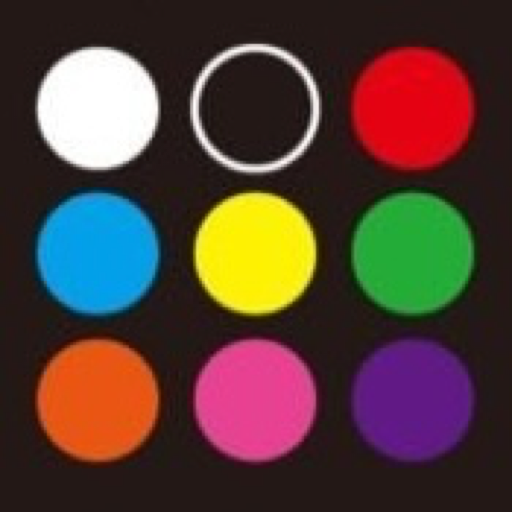
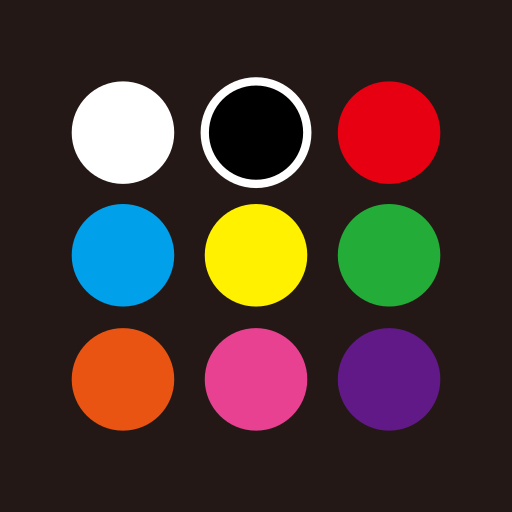
feat: 公式アイコン・ロゴを導入し、ヘッダー / Access / Footer をアイコン + ロゴのロックアップに
- public/favicon.svg に公式アイコン (焦茶の正方形に 3×3 ドット) を追加し、favicon / apple-touch-icon / android-chrome の PNG をそこから再生成。Base.astro で SVG favicon を先に参照、site.webmanifest にも追加
- src/assets/logo.svg: 提供された text ベースのロゴ SVG (Iowan Old Style 146px + Noto Sans JP Light 41px、textLength 指定) を fontTools + HarfBuzz でアウトライン化し svgo で圧縮 (5KB、fill=currentColor)
- BrandLockup.astro を新設 (アイコン左 + ロゴ右、同じ高さ、間隔は高さ×0.3、高さは --lockup-height)。Header (48 / 28px)、Access の h2 (72 / 52px、ロゴが role="img")、Footer (40px) で使用。Hero のドットと Access の GINZA ラベル、CSS 描画の BrandDots.astro と点灯アニメーション (dot-in) は削除
- DESIGN.md / tokens.css: dot-* を公式アイコンの値に更新、dot-border と typography.brand を削除、brand-lockup と Logo / Brand Lockup / Header / Footer の記述を更新。--logo-height* を追加
- verify-dist: SVG favicon、ヘッダーのロゴ、ロックアップの配置 (Header / Access / Footer、Hero にはない)、Access 見出し、icon.svg と favicon.svg の同一性の検査を追加 (37 件)
- CLAUDE.md / spec に構成と更新注記を追記

Changed region(s): [[0.0625, 0.0625, 0.9375, 0.9062]]

diff --git a/src/styles/tokens.css b/src/styles/tokens.css
@@ -15,15 +15,14 @@
   --color-scrollbar-thumb: #443330;
   --color-dot-white: #FFFFFF;
   --color-dot-black: #000000;
-  --color-dot-red: #E60012;
-  --color-dot-blue: #0099CC;
-  --color-dot-yellow: #FFD700;
-  --color-dot-green: #009944;
-  --color-dot-orange: #F39800;
-  --color-dot-pink: #E6007F;
-  --color-dot-purple: #920783;
-  /* 黒ドットの輪郭 (DESIGN.md Brand Dots: #4a5565 相当) */
-  --color-dot-border: oklch(44.6% 0.03 256.802);
+  /* ドット 9 色は公式アイコン (public/favicon.svg) の値が正。黒ドットの縁取りは dot-white */
+  --color-dot-red: #E70012;
+  --color-dot-blue: #00A0EA;
+  --color-dot-yellow: #FFF100;
+  --color-dot-green: #23AC38;
+  --color-dot-orange: #E95412;
+  --color-dot-pink: #E84191;
+  --color-dot-purple: #611987;
 
   /* typography: --font-zen-old-mincho は Astro Fonts API が定義する (和文も欧文も 1 書体) */
   --font-serif: var(--font-zen-old-mincho), serif;
@@ -37,9 +36,6 @@
   --text-title: 1.875rem;
   --text-title-mobile: 1.5rem;
   --leading-title: 1.625;
-  --text-brand: 1.5rem;
-  --text-brand-mobile: 1.25rem;
-  --leading-brand: 1.33;
   --text-body: 1rem;
   --text-body-mobile: 0.875rem;
   --leading-body: 2;
@@ -65,6 +61,13 @@
   --space-stack-xl: 64px;
   --space-card-gap: 96px;
   --space-card-gap-md: 128px;
+
+  /* logo (アイコン + ロゴのロックアップの高さ。DESIGN.md Brand Lockup) */
+  --logo-height: 48px;
+  --logo-height-mobile: 28px;
+  --logo-height-footer: 40px;
+  --logo-height-access: 72px;
+  --logo-height-access-mobile: 52px;
 
   /* rounded */
   --radius-none: 0px;

diff --git a/src/styles/global.css b/src/styles/global.css
@@ -119,7 +119,7 @@ button:focus-visible {
   padding: var(--space-section-y) var(--space-section-x);
 }
 
-/* セクションラベル (RIZ / BOUTIQUE / GINZA など) */
+/* セクションラベル (RIZ / BOUTIQUE など) */
 .label {
   display: block;
   margin-bottom: 8px;
@@ -148,11 +148,6 @@ button:focus-visible {
 @keyframes rise-in {
   from { opacity: 0; translate: 0 10px; }
   to { opacity: 1; translate: 0 0; }
-}
-
-@keyframes dot-in {
-  from { opacity: 0; scale: 0; }
-  to { opacity: 1; scale: 1; }
 }
 
 @keyframes slow-zoom {

diff --git a/DESIGN.md b/DESIGN.md
@@ -18,15 +18,14 @@ colors:
   scrollbar-thumb: "#443330"
   dot-white: "#FFFFFF"
   dot-black: "#000000"
-  dot-red: "#E60012"
-  dot-blue: "#0099CC"
-  dot-yellow: "#FFD700"
-  dot-green: "#009944"
-  dot-orange: "#F39800"
-  dot-pink: "#E6007F"
-  dot-purple: "#920783"
-  # 黒ドットの輪郭 (tokens.css --color-dot-border)
-  dot-border: "oklch(44.6% 0.03 256.802)"
+  # ドット 9 色は公式アイコン (public/favicon.svg) の値が正。黒ドットの縁取りは dot-white
+  dot-red: "#E70012"
+  dot-blue: "#00A0EA"
+  dot-yellow: "#FFF100"
+  dot-green: "#23AC38"
+  dot-orange: "#E95412"
+  dot-pink: "#E84191"
+  dot-purple: "#611987"
 typography:
   # fontSize は 768px 以上の値。モバイル値は本文 Typography の表を参照。
   display:
@@ -46,12 +45,6 @@ typography:
     fontSize: "1.875rem"
     fontWeight: 400
     lineHeight: 1.625
-    letterSpacing: "0.1em"
-  brand:
-    fontFamily: Zen Old Mincho, serif
-    fontSize: "1.5rem"
-    fontWeight: 400
-    lineHeight: 1.33
     letterSpacing: "0.1em"
   body:
     fontFamily: Zen Old Mincho, serif
@@ -138,9 +131,10 @@ components:
   field-label:
     textColor: "{colors.text-muted}"
     typography: "{typography.label}"
-  brand-dot:
-    rounded: "{rounded.full}"
-    size: "12px"
+  # アイコン + ロゴの横並びロックアップ (BrandLockup)。size はヘッダー (768px 以上) の高さ
+  brand-lockup:
+    rounded: "{rounded.none}"
+    size: "48px"
   footer-text:
     textColor: "{colors.text-muted}"
     typography: "{typography.caption}"
@@ -193,7 +187,7 @@ components:
 - **スクロールバー (`scrollbar-thumb`, #443330)**: WebKit スクロールバーのつまみ。トラックは `brand`。
 
 ### Brand Dots (装飾専用)
-白・黒・赤・青・黄・緑・橙・桃・紫の 9 色 (`dot-*`) は、ロゴモチーフの 3×3 ドットと、セクションに散らす微小な光点にだけ使う。UI の意味色 (成功・警告・リンクなど) に転用しない。ドットは 30〜50% のグローを伴い、黒ドットだけは #4a5565 相当の 1px 枠で輪郭を出す。
+白・黒・赤・青・黄・緑・橙・桃・紫の 9 色 (`dot-*`) は、公式アイコンの 3×3 ドットと、セクションに散らす微小な光点にだけ使う。UI の意味色 (成功・警告・リンクなど) に転用しない。値は公式アイコン (`public/favicon.svg`) が正。ページ内ではロックアップ (`BrandLockup`) の左側に同じ SVG (`src/assets/icon.svg`) を焦茶の四角ごと inline で置き、色は SVG 内の値をそのまま使う (グローや縁取りの加工はしない)。
 
 ### Named Rules
 **The One Gold Rule.** 金は 1 画面のうちごく一部にしか現れない。CTA も静止時は白の罫線で、ホバーして初めて金に反転する。金が面として存在する時間は「触れている間」だけ。
@@ -213,11 +207,11 @@ components:
 - **Display** (`display`, 400, 3.5rem / 行間 1.11 / 字間 0.2em): Hero の h1 だけ。改行は文言側で明示する。モバイル 2.25rem。
 - **Headline** (`headline`, 400, 2.5rem / 1.2 / 0.1em): Experience・BOUTIQUE・Access の h2。モバイル 1.875rem。
 - **Title** (`title`, 400, 1.875rem / 1.625 / 0.1em): Philosophy の h2。行間を広めに取り 2 行タイトルを収める。モバイル 1.5rem。
-- **Brand** (`brand`, 400, 1.5rem / 1.33 / 0.1em): ヘッダーの店名。モバイル 1.25rem。直下にカナ表記 (`label` サイズ、字間 0.2em、`text-muted`) を添える。
+- **Logo**: 店名は文字で組まず、ロゴ (`src/assets/logo.svg`、Iowan Old Style のワードマーク + Noto Sans JP Light のカナをアウトライン化した SVG) を、常に公式アイコンを左に添えた横並びロックアップ (`BrandLockup`) で置く。高さはヘッダー 48px / モバイル 28px (`--logo-height` / `--logo-height-mobile`)、Access の見出し (h2、ロゴが `role="img"`) 72px / 52px (`--logo-height-access*`)、Footer 40px (`--logo-height-footer`)。ロゴは `fill: currentColor` で置き場所の文字色を継ぐ (ヘッダー・Access は白、Footer は `text-soft`)。
 - **Body** (`body`, 400, 1rem / 2 / 0.1em): 本文。行間 2 は意図的に広い。モバイル 0.875rem (行間はそのまま)。
 - **Menu** (`menu`, 400, 0.875rem / 1.43 / 0.1em): デスクトップナビ、ボタン文字 (md / lg)、Access の予約注記。
 - **Label** (`label`, 400, 0.75rem / 1.33 / 0.1em): 言語スイッチ、`ADDRESS` `TEL` `HOURS` `RESERVATION` のフィールドラベル、sm ボタン、営業時間の注記。
-- **Label Wide** (`label-wide`, 400, 0.75rem / 1.33 / 0.3em): `RIZ` `SOUPE` `MARIAGE` `BOUTIQUE` `GINZA` のセクションラベル。金または `text-muted`。
+- **Label Wide** (`label-wide`, 400, 0.75rem / 1.33 / 0.3em): `RIZ` `SOUPE` `MARIAGE` `BOUTIQUE` のセクションラベル。金または `text-muted`。
 - **Caption** (`caption`, 400, 10px / 1.5 / 0.1em): フッターの著作権表記のみ。
 
 ### 数字と約物
@@ -287,12 +281,12 @@ components:
 - **Focus:** `accent` 2px のアウトライン、offset 2px (全リンク・ボタン共通)
 
 ### Header & Navigation
-- **Desktop:** 左に店名 (`brand`) とカナ表記、右に `Access` リンク (`nav-link`、ホバーで `accent` へ 300ms) と sm の Outline ボタン。ヘッダーは開演の最後 (遅延 1.4s) に 1 秒でフェードイン
-- **Mobile:** `Access` リンクを省き、右上に sm の Outline ボタンだけを置く。ハンバーガーメニューは持たない (Access セクションへはスクロールで届く)
+- **Desktop:** 左にアイコン + ロゴのロックアップ (高さ 48px)、右に `Access` リンク (`nav-link`、ホバーで `accent` へ 300ms) と sm の Outline ボタン。ヘッダーは開演の最後 (遅延 1.4s) に 1 秒でフェードイン
+- **Mobile:** ロックアップは高さ 28px (RESERVATION ボタンと並べて 375px に収める)。`Access` リンクを省き、右上に sm の Outline ボタンだけを置く。ハンバーガーメニューは持たない (Access セクションへはスクロールで届く)
 - **Language Switch:** 英語版を追加するまで非表示。追加時は `JP | EN` の静的リンク (0.75rem、字間 0.1em、アクティブは `accent` + 700 + 1px 下線) をナビの右に置く
 
 ### Section Label + Heading
-- **Pattern:** `label-wide` の仏語/英語ラベル (`RIZ` `BOUTIQUE` `GINZA`) を `accent` (Access の `GINZA` は `text-muted`) で置き、8px 下に `headline` の h2、32px 下に本文
+- **Pattern:** `label-wide` の仏語/英語ラベル (`RIZ` `BOUTIQUE`) を `accent` で置き、8px 下に `headline` の h2、32px 下に本文。Access だけは例外で、h2 としてアイコン + ロゴのロックアップ (高さ 72px、モバイル 52px) を置き、ラベルは持たない
 - **Field Label:** Access の `ADDRESS` `TEL` `HOURS` `RESERVATION` は `field-label` (`text-muted`、0.75rem、字間 0.1em) で、4px 下に値
 
 ### Photo Treatment
@@ -301,15 +295,15 @@ components:
 - **Experience:** 90% に減光、16:9、ホバーで 2 秒かけて 1.05 倍。下から `brand` へ溶かす
 - **BOUTIQUE:** 30% に減光して全面背景に、上下を `brand` で締める
 
-### Brand Dots
-- **Style:** 3×3 グリッド、色順固定、各ドットにグロー。Hero の開演では 9 個が 0.2 秒から 0.08 秒ずつずれて 0.5 秒で拡大しながら現れる
-- **Usage:** Hero / Access の 2 箇所。他では使わない
+### Brand Lockup (アイコン + ロゴ)
+- **Style:** 公式アイコン SVG (焦茶の四角 + 3×3 ドット) を左、ロゴを右に同じ高さで横並び。間隔は高さの 0.3 倍。アニメーションは付けない (2026-09-12 のユーザー指示。必要になったら指示がある)
+- **Usage:** ヘッダー (リンク、48px / 28px)、Access の見出し (h2、72px / 52px)、Footer (40px) の 3 箇所。Hero には置かない (h1 とタグラインだけ)
 
 ### Footer
-- **Style:** 上に `line-faint` の 1px 罫線、縦 32px、中央揃え、`footer-text` (`text-muted`、10px、字間 0.1em、`tabular-nums`)。文言は `© {年} Naji la boule. All Rights Reserved.`
+- **Style:** 上に `line-faint` の 1px 罫線、上 64px / 下 32px、中央揃え。アイコン + ロゴのロックアップ (高さ 40px、ロゴの色は `text-soft`) を置き、32px 下に `footer-text` (`text-muted`、10px、字間 0.1em、`tabular-nums`)。文言は `© {年} Naji la boule. All Rights Reserved.`
 
 ### Motion Grammar
-- **開演 (ページ表示時):** 写真が 0.15 → 0.5 に 1.2s で明るくなり、9 つのドットが 0.2s から 0.08s 刻みで灯り、見出し (遅延 0.5s、y +10px、1s) → タグライン (0.9s、1s) → ヘッダー (1.4s、1s) の順に現れる。合計約 2.4s、ブロッキングしない
+- **開演 (ページ表示時):** 写真が 0.15 → 0.5 に 1.2s で明るくなり、見出し (遅延 0.5s、y +10px、1s) → タグライン (0.9s、1s) → ヘッダー (1.4s、1s) の順に現れる。Hero にアイコンは置かない (2026-09-12 に撤去)。合計約 2.4s、ブロッキングしない
 - **スクロール時の浮き上がり:** `animation-timeline: view()` で、要素が視界に入る区間 (entry 0% → 40%) に不透明度 0 → 1、y +30px → 0。`@supports` で段階適用し、非対応では常時表示
 - **ホバー:** 色は 300ms、ボタンの反転は 500ms、写真の拡大は 2 秒。いずれも ease-out
 - **イージング:** ease-out / ease-in-out のみ。スプリング、バウンス、オーバーシュートは使わない
@@ -319,7 +313,7 @@ components:
 ## Do's and Don'ts
 
 ### Do:
-- **Do** すべての文字を Zen Old Mincho の明朝で組む。ウェイトは 400、Google Fonts の読み込みも 400 と 700 だけ
+- **Do** すべての文字を Zen Old Mincho の明朝で組む。ウェイトは 400、Google Fonts の読み込みも 400 と 700 だけ。例外はロゴだけ (アウトライン化した SVG なので書体を読み込まない)
 - **Do** 小ラベルは英字大文字で字間 0.1em 以上。主要カテゴリは仏語 (`RIZ` `SOUPE` `MARIAGE` `BOUTIQUE`)
 - **Do** 本文は行間 2、字間 0.1em、色は `text-soft` か `text-muted`
 - **Do** 写真は必ず減光し、`brand` へのグラデーションで下端を地に溶かす

diff --git a/docs/superpowers/specs/2026-09-10-astro-rebuild-design.md b/docs/superpowers/specs/2026-09-10-astro-rebuild-design.md
@@ -1,4 +1,4 @@
-# Naji la boule LP — Astro によるゼロからの再構築 設計
+左に店名 (1.25 / 1.5rem、字間 0.1em) とカナ。右に Access リンク (md 以上のみ) と RESERVATION outline sm (blueprint §5.1)。2026-09-12 更新: 店名テキストをアイコン + ロゴの横並びロックアップ (高さ 28 / 48px) に差し替え |# Naji la boule LP — Astro によるゼロからの再構築 設計
 
 日付: 2026-09-10
 状態: ユーザーレビュー待ち
@@ -70,7 +70,7 @@ src/
 ├── layouts/
 │   └── Base.astro          <html lang> / <head> 一式 / skip link / <slot />
 ├── components/
-│   ├── Header.astro        固定ヘッダー (店名 + カナ / Access リンク (md 以上) / RESERVATION ボタン)
+│   ├── Header.astro        固定ヘッダー (ロゴ SVG / Access リンク (md 以上) / RESERVATION ボタン。2026-09-12 に店名 + カナのテキストからロゴに差し替え)
 │   ├── Hero.astro
 │   ├── Philosophy.astro    3 幕の scrollytelling
 │   ├── Experience.astro    RIZ / SOUPE / MARIAGE のカード ×3
@@ -119,13 +119,14 @@ DOM 順: skip link → `<header>` → `<main>` (Hero `#top` → Philosophy `#phi
 
 | コンポーネント | 内容と見た目 (blueprint の対応節) | 変更点 |
 |---|---|---|
-| Header | 固定・上端・`brand` 90% → 透明のグラデーション + 2px ぼかし。左に店名 (1.25 / 1.5rem、字間 0.1em) とカナ。右に Access リンク (md 以上のみ) と RESERVATION outline sm (blueprint §5.1) | ハンバーガーと言語スイッチを廃止。モバイルでも RESERVATION を直置き |
-| Hero | 100vh、背景写真 (50% + grayscale + slow-zoom)、上下グラデーション、ドット md、h1、タグライン (§6) | 二重スケールを解消し 1.1 → 1.2 の単一スケールに。「開演」演出 (§7.1) |
+| Header | 固定・上端・`brand` 90% → 透明のグラデーション + 2px ぼかし。左に店名 (1.25 / 1.5rem、字間 0.1em) とカナ。右に Access リンク (md 以上のみ) と RESERVATION outline sm (blueprint §5.1)。2026-09-12 更新: 店名テキストをアイコン + ロゴの横並びロックアップ (高さ 28 / 48px) に差し替え | ハンバーガーと言語スイッチを廃止。モバイルでも RESERVATION を直置き |
+| Hero | 100vh、背景写真 (50% + grayscale + slow-zoom)、上下グラデーション、ドット md、h1、タグライン (§6) | 二重スケールを解消し 1.1 → 1.2 の単一スケールに。「開演」演出 (§7.1)。2026-09-12 更新: ドットを公式アイコン SVG に置き換えたのち、同日 Hero からアイコンを撤去 (h1 とタグラインのみ) |
 | Philosophy | 3 幕の scrollytelling (§7.3)。文言は `philoSlides` の 3 組 | 自動スライダーとインジケータを廃止 |
 | Experience | 画像 16:9 + 文章の 2 カラム、左右交互 (§8) | 変更なし |
 | Boutique | 背景写真 30% + 上下グラデーション、48rem の文章、ONLINE SHOP ボタン (§9) | 変更なし |
 | Access | `brand-dark` 背景、ドット sm、2 列グリッド、RESERVATION filled lg、地図 iframe (§10) | 変更なし |
-| Footer | 10px、罫線 5% (§11) | 変更なし |
+| Footer | 10px、罫線 5% (§11) | 変更なし。2026-09-12 更新: 著作権表記の上にアイコン + ロゴの横並びロックアップを追加 |
+| Access (補足) | アイコン sm + h2 店名 + GINZA ラベル | 2026-09-12 更新: h2 をアイコン + ロゴの横並びロックアップ (ロゴが role="img") に差し替え、GINZA ラベルを削除 |
 | BrandDots | 3×3、9 色、グロー (§3.1) | animated は Hero の開演でのみ使用 |
 | Button | outline / filled × sm / md / lg (§3.2) | 変更なし |
 
@@ -212,7 +213,7 @@ DOM 順: skip link → `<header>` → `<main>` (Hero `#top` → Philosophy `#phi
 
 - `<html lang="ja" class="dark" style="color-scheme: dark">`、`theme-color #241816`、viewport
 - title `Naji la boule | Ginza`、description (ja.ts)、canonical、OGP (ja_JP、`images/ogp.jpg`)、`twitter:card`、JSON-LD `Restaurant` (現行 index.html の内容を `config.ts` から生成)
-- favicon 一式と `site.webmanifest` は現状維持
+- favicon 一式と `site.webmanifest` は現状維持 (2026-09-12 更新: 正式アイコン `public/favicon.svg` を追加し、PNG 群をそこから再生成)
 - `public/sitemap.xml` は 1 URL、`robots.txt` は現状維持
 - skip link (「本文へ」)、ランドマーク、h1 は 1 つ、`section[aria-labelledby]`、`a:focus-visible` / `button:focus-visible` のリング、外部リンクの `rel="noopener noreferrer"` と aria-label、`tel:` リンクの aria-label、iframe title
 - noscript 文言は不要 (JS がないため)

diff --git a/CLAUDE.md b/CLAUDE.md
@@ -21,23 +21,26 @@ astro.config.ts        site / base / fonts (Astro Fonts API、自前ホスト)
 src/
 ├── pages/index.astro  日本語ページ。Base に各セクションを並べ、Hero の preload を渡す
 ├── layouts/Base.astro <head> 一式 (meta / OGP / JSON-LD / フォント / preload)、skip link
-├── components/        Header / Hero / Philosophy / Experience / Boutique / Access / Footer / Button / BrandDots
+├── components/        Header / Hero / Philosophy / Experience / Boutique / Access / Footer / Button / BrandLockup (アイコン + ロゴ)
 ├── content/ja.ts      文言 (型 Copy)。英語版は en.ts を追加
 ├── i18n/              Lang / Copy 型、getCopy(lang)、SUPPORTED_LANGS
 ├── assets/images/     元画像 (JPEG)。<Picture> が AVIF/WebP をビルド時生成
 ├── assets/images.ts   画像の import と alt (alt の文字列は assets/alts.ts)
 ├── assets/alts.ts     画像 alt (ja/en)。字形サブセットの収集元
+├── assets/logo.svg    ロゴ (アウトライン化した SVG、fill=currentColor)。BrandLockup.astro が SVG コンポーネントとして inline 展開
+├── assets/icon.svg    公式アイコン (public/favicon.svg と同一内容。verify-dist が照合)。BrandLockup.astro がロゴの左に inline 展開
 ├── config.ts          SITE (店名・電話・URL・地図) と JSON-LD
 └── styles/
     ├── tokens.css     DESIGN.md フロントマターを :root 変数に写したもの
     └── global.css     リセット、body 背景 3 層、focus ring、.container/.section/.label/.reveal、共通 keyframes、reduced-motion
 scripts/verify-dist.mjs  ビルド成果物の不変条件 (配信 JS ゼロ、外部フォントなし、h1 が 1 つ、preload 等)
+public/favicon.svg       正式アイコン (焦茶の正方形に 3×3 ドット)。favicon-*.png / apple-touch-icon.png / android-chrome-*.png はここから生成したもの (手編集しない)。ドット色の正でもある (tokens.css の --color-dot-* と同値)
 ```
 
 ## ルール
 
 - **配信 JS を増やさない**。動きは CSS (keyframes / scroll-driven animations) で書き、`@supports` と `prefers-reduced-motion` で段階的に落とす
-- **文言のハードコード禁止**。表示文字列は `src/content/ja.ts` に置き、`getCopy()` 経由で参照する。例外: 欧文の装飾ラベル (RIZ / SOUPE / MARIAGE / BOUTIQUE / GINZA / ADDRESS / TEL / HOURS / RESERVATION / ONLINE SHOP) と画像 alt (`src/assets/images.ts` に ja/en 併記)
+- **文言のハードコード禁止**。表示文字列は `src/content/ja.ts` に置き、`getCopy()` 経由で参照する。例外: 欧文の装飾ラベル (RIZ / SOUPE / MARIAGE / BOUTIQUE / ADDRESS / TEL / HOURS / RESERVATION / ONLINE SHOP) と画像 alt (`src/assets/images.ts` に ja/en 併記)
 - **英語版の継ぎ目を壊さない**。`Copy` 型・`getCopy(lang)`・`Base` の `lang` prop・alt の ja/en 併記を維持する。英語版を足すときは `content/en.ts`、`pages/en/index.astro`、`astro.config.ts` の `i18n`、`SUPPORTED_LANGS` を追加する
 - ブレークポイントは 768px (`48rem`) の 1 本だけ
 - `dist/` と `package-lock.json` は直接編集しない
